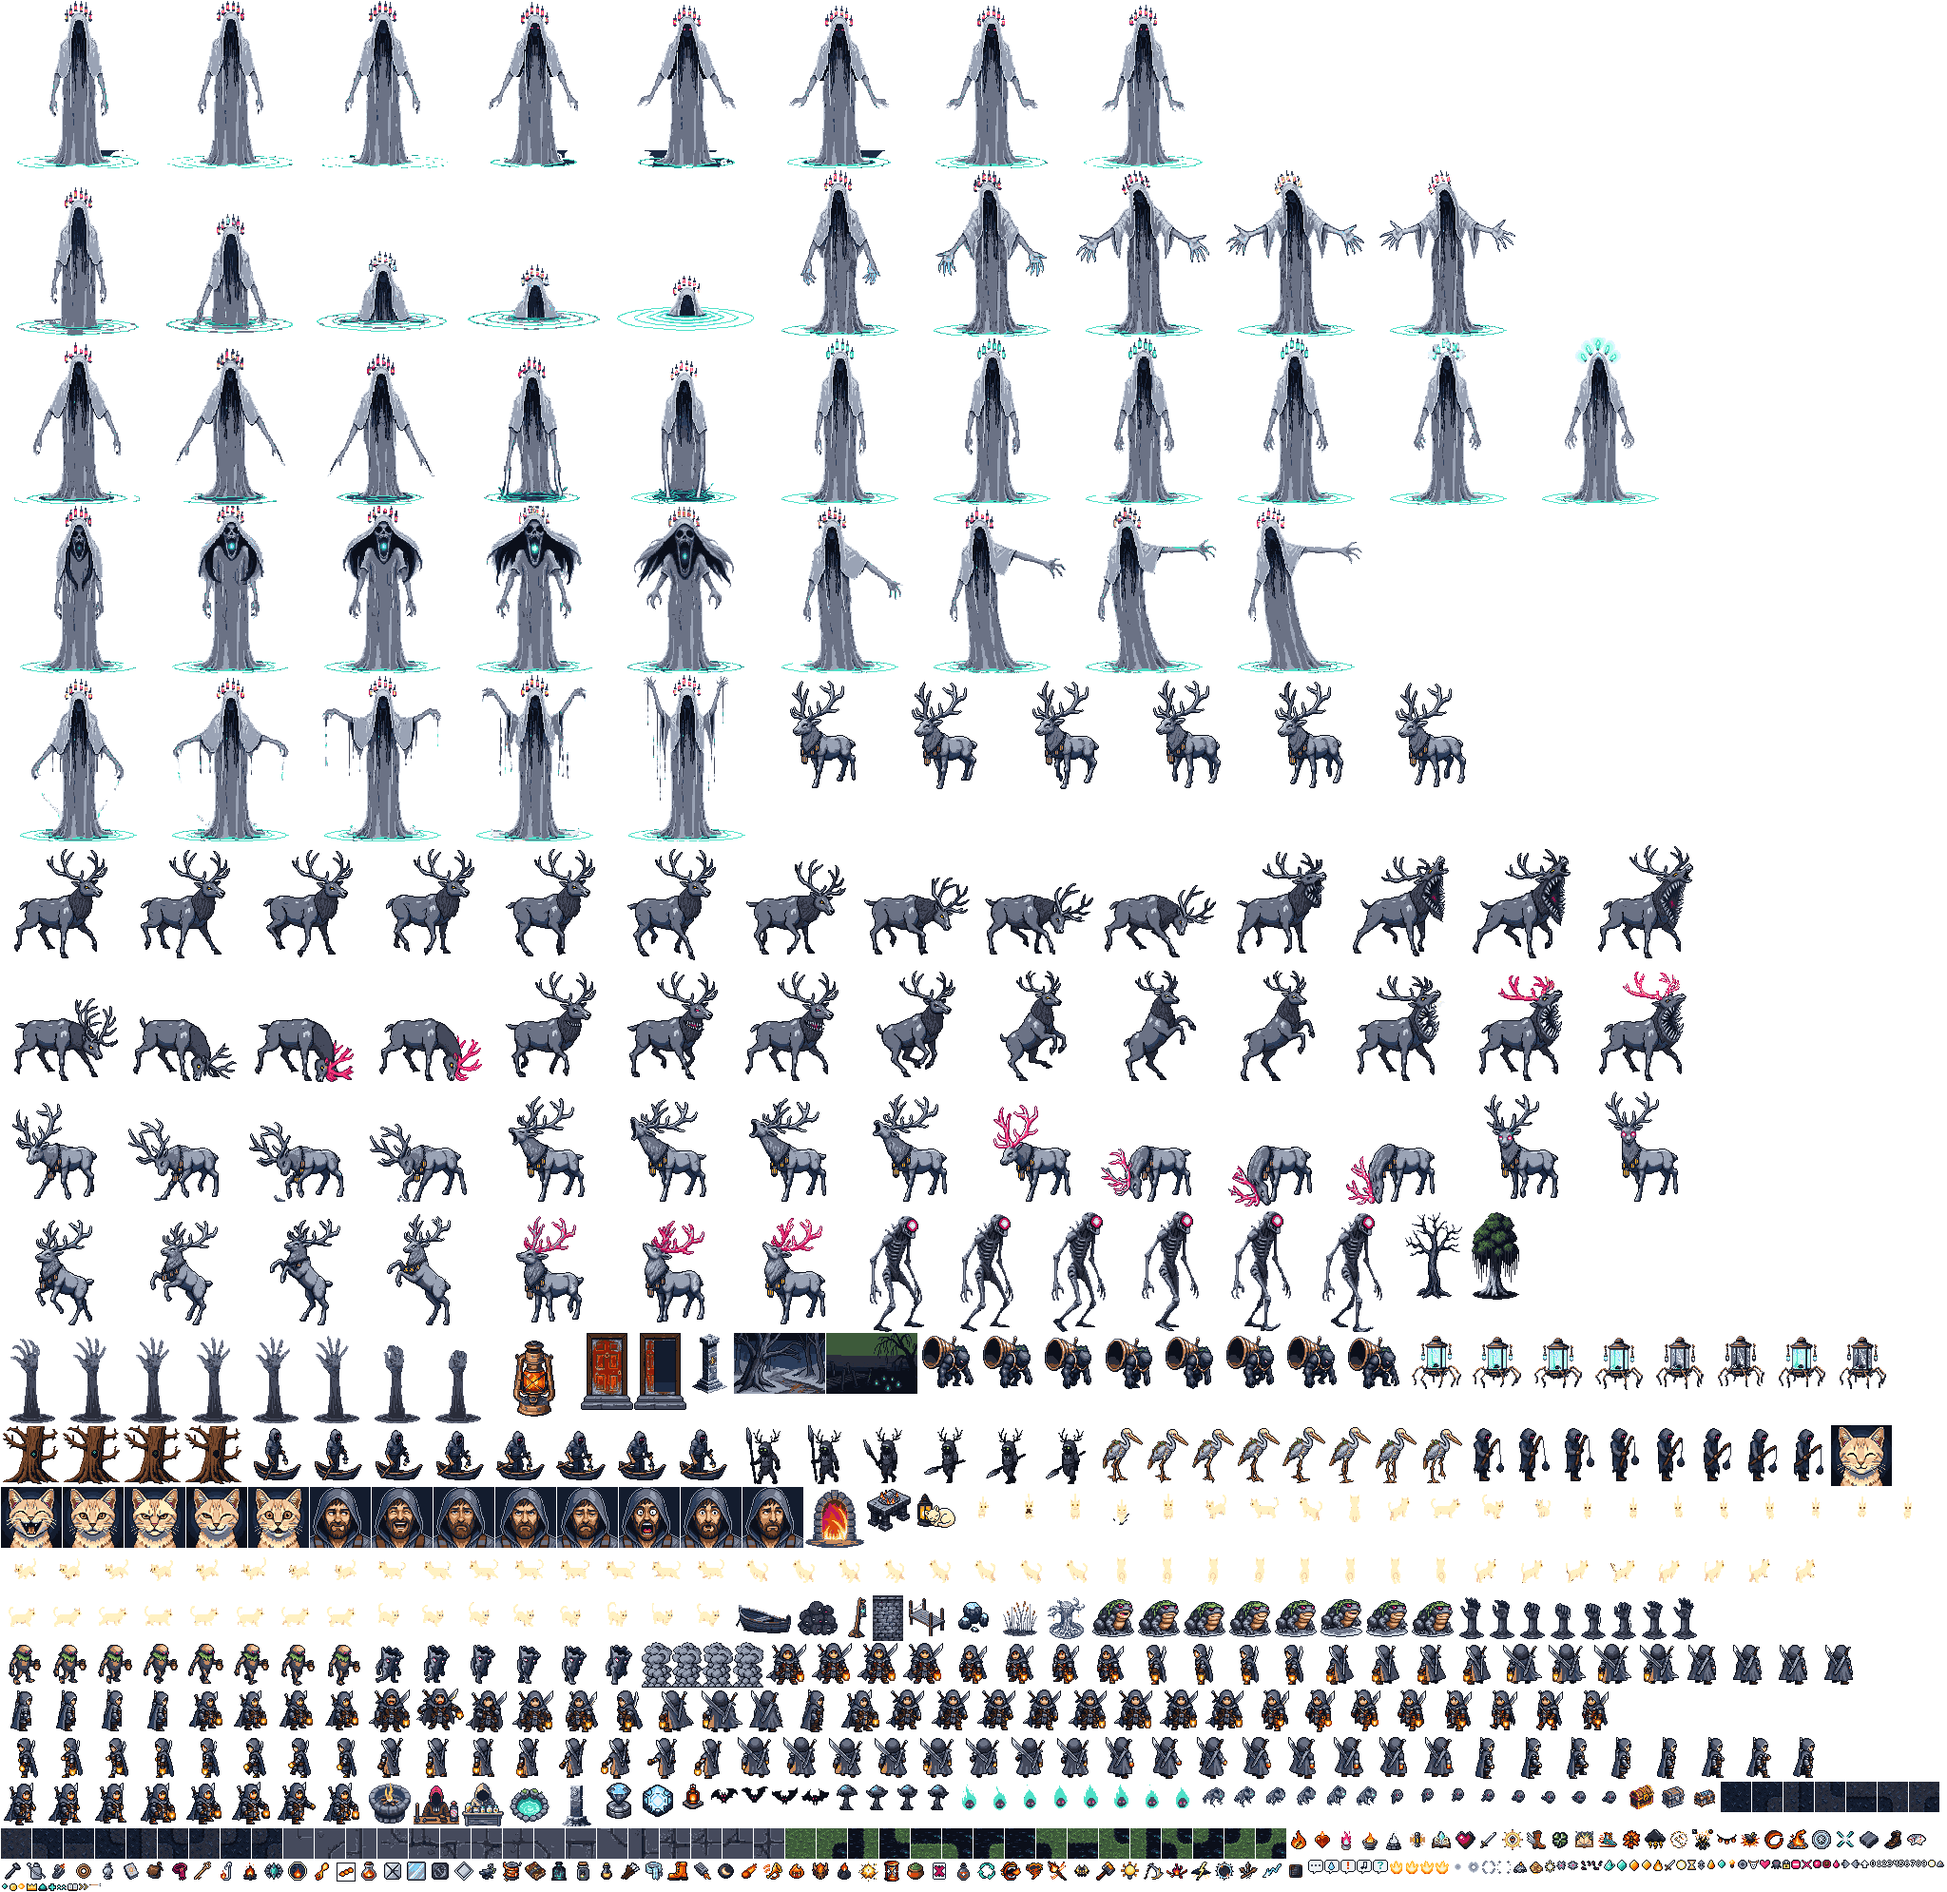
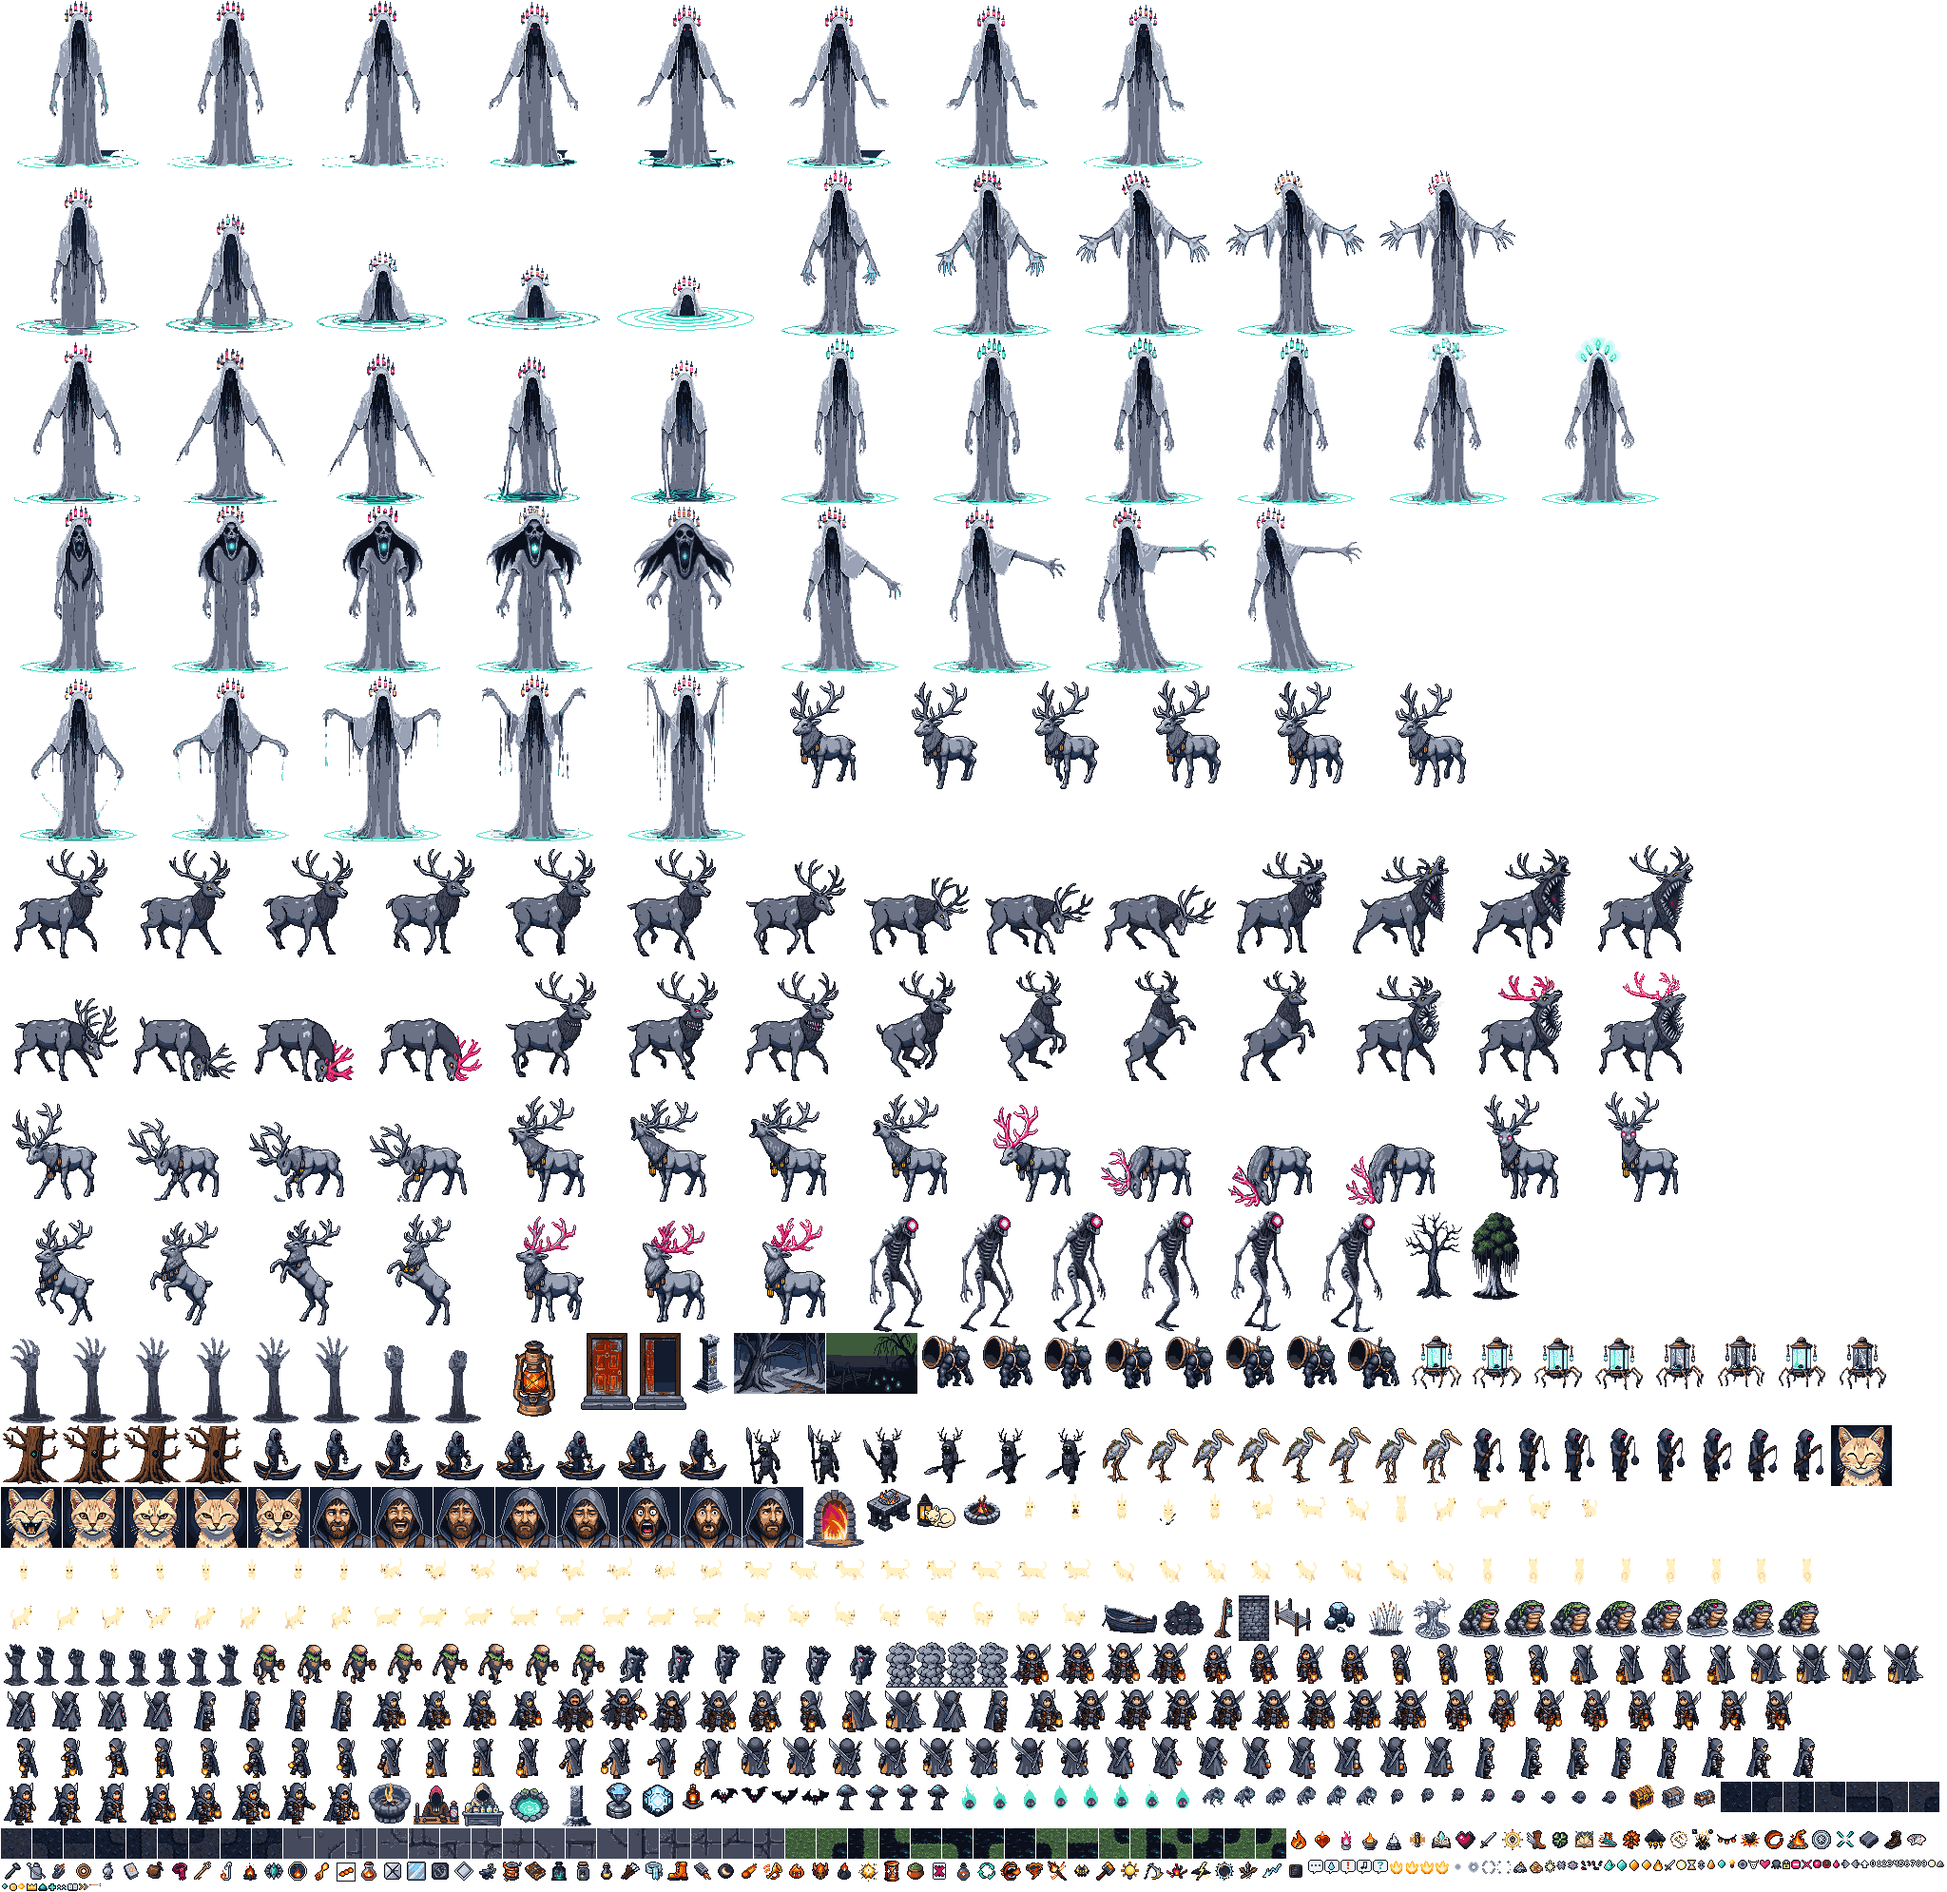
feat(camp): un vrai feu de camp à la place du braséro du refuge

Changed region(s): [[0.0, 0.7789, 1.0, 0.9347], [0.5, 0.7789, 0.5312, 0.8101]]

diff --git a/packages/braise/src/render/renderer.ts b/packages/braise/src/render/renderer.ts
@@ -45,7 +45,8 @@ export interface CampView {
   visible: ReadonlySet<string>;
   /** L'objet au focus : il s'éclaire un peu. */
   near: string | null;
-  doorOpen: boolean;
+  /** Le maintien de « Partir », de 0 à 1 : la porte s'entrouvre, le refuge s'assombrit, une lueur sort. */
+  doorHold: number;
 }
 
 interface Fx {
@@ -257,6 +258,8 @@ export class GameRenderer {
   campDef: CampDef = { speed: 0, bounds: { x: 0, y: 0, rx: 1, ry: 1 }, objects: [] };
   /** La porte, l'Autel, les Souvenirs et la lanterne seule, par identifiant d'objet. */
   private readonly campObjects = new Map<string, Sprite>();
+  /** La porte ouverte, posée sur la porte fermée : son opacité suit le maintien. */
+  private doorOpenSprite!: Sprite;
   private campBuilt = false;
   /** Cream pendant une scène de route (Moon reprend `campHero`), leurs bulles, et la flamme qui prend. */
   private sceneCream!: Sprite;
@@ -1881,7 +1884,7 @@ export class GameRenderer {
     prop('decor-arbre', 30, 300); prop('decor-rochers', 500, 300); prop('decor-souche', 150, 290); prop('decor-ruine', 470, 110);
     prop('decor-arbre', 250, 52); prop('decor-arbre', 410, 60); prop('decor-rochers', 90, 210);
     const fire = this.campPlace('fire');
-    prop('poi-brasero', fire.x, fire.y);
+    prop('camp-feu', fire.x, fire.y);
     for (const [id, look] of Object.entries(CAMP_LOOKS)) {
       const at = this.campPlace(id);
       const s = new Sprite(a.get(look.sprite));
@@ -1890,6 +1893,14 @@ export class GameRenderer {
       s.zIndex = at.y;
       this.camp.addChild(s);
       this.campObjects.set(id, s);
+      if (id === 'door') {
+        this.doorOpenSprite = new Sprite(a.get('camp-door-open'));
+        this.doorOpenSprite.anchor.set(0.5, 1);
+        this.doorOpenSprite.position.copyFrom(s.position);
+        this.doorOpenSprite.zIndex = at.y + 0.1;
+        this.doorOpenSprite.alpha = 0;
+        this.camp.addChild(this.doorOpenSprite);
+      }
     }
     this.campFlame = new Sprite(this.flameFrames[0]!);
     this.campFlame.anchor.set(0.5, 1);
@@ -1944,8 +1955,12 @@ export class GameRenderer {
     }
   }
 
-  private drawCampObjects(visible: ReadonlySet<string>, cream: boolean, doorOpen = false, near: string | null = null): void {
-    this.campObjects.get('door')!.texture = this.atlas.get(doorOpen ? 'camp-door-open' : 'camp-door');
+  private drawCampObjects(visible: ReadonlySet<string>, cream: boolean, doorHold = 0, near: string | null = null, t = 0): void {
+    // La porte s'ouvre au rythme du maintien : la porte ouverte apparaît par-dessus, d'un fondu lent.
+    const hold = Math.max(0, Math.min(1, doorHold));
+    const open = hold * hold * (3 - 2 * hold);
+    this.doorOpenSprite.alpha = open;
+    this.doorOpenSprite.visible = visible.has('door');
     for (const [id, look] of Object.entries(CAMP_LOOKS)) {
       const present = visible.has(id);
       // La lanterne est déjà dessinée dans le sprite de Cream couché.
@@ -1954,6 +1969,12 @@ export class GameRenderer {
       const at = this.campPlace(id);
       const focused = near === id;
       this.light(at.x, at.y - look.up, look.radius + (focused ? 10 : 0), look.warm + (focused ? 0.14 : 0), look.tint);
+      if (id === 'door' && open > 0) {
+        // Ce qu'il y a derrière : une lueur pâle qui grandit et qui vacille, sur la porte et alentour.
+        const flicker = 1 + Math.sin(t * 9) * 0.04 + Math.sin(t * 5.3) * 0.03;
+        this.light(at.x, at.y - look.up, Math.round((look.radius + 70 * open) * flicker), 0.1 + 0.4 * open, C.emberPale);
+        this.light(at.x, at.y - look.up, Math.round((18 + 22 * open) * flicker), 0.45 * open, C.emberWhite);
+      }
     }
   }
 
@@ -1974,7 +1995,9 @@ export class GameRenderer {
     const frames = walk[0] === Texture.EMPTY ? [this.atlas.get(`${heroSprite}-rot-${moon.facing}`)] : walk;
     this.campHero.texture = frames[Math.floor(t * (moon.moving ? 12 : 5)) % frames.length]!;
     this.light(moon.x, moon.y - 10, 56 + Math.round(Math.sin(t * 2.7)), 0.1);
-    this.drawCampObjects(view.visible, cream, view.doorOpen, view.near);
+    // Le refuge s'assombrit à mesure que la porte s'ouvre : la lueur n'en ressort que plus.
+    this.darkness.alpha = Math.min(0.94, this.darkness.alpha + view.doorHold * 0.36);
+    this.drawCampObjects(view.visible, cream, view.doorHold, view.near, t);
     if (view.near === 'cream') {
       const at = this.campPlace('cream');
       this.light(at.x, at.y - 10, 34, 0.14);
